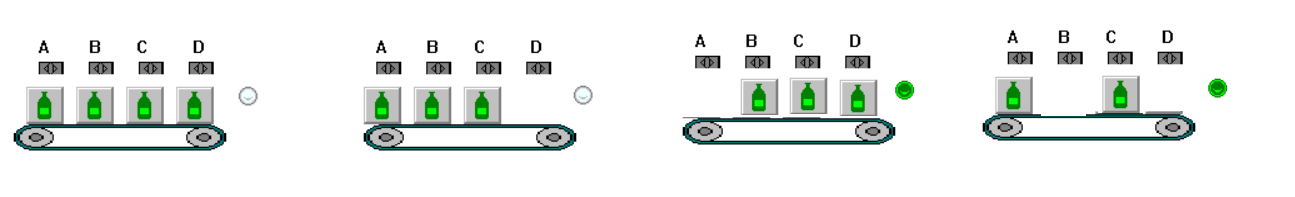
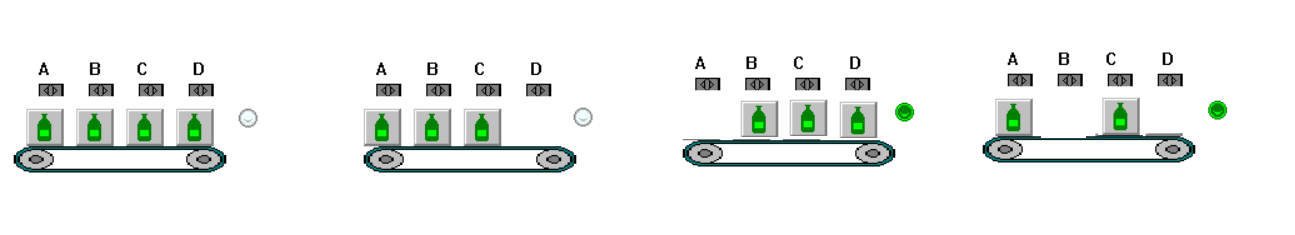
automatas ss

diff --git a/webAutomatas/ssp.html b/webAutomatas/ssp.html
@@ -16,7 +16,7 @@
 
 <body>
 
-    <div id="contenedor">
+    <div id="contenedor1">
 
         <header>
             <nav>
@@ -36,8 +36,8 @@
                         <img alt="automas" src="../imagenes/ssp.jpeg">PRÁCTICAS
                     </a>
                 </div>
-                
-                  <!-- Por ejemplo: -->
+
+                <!-- Por ejemplo: -->
                 <div class="card card_icono">
                     <a href="logo.html">
 
@@ -54,7 +54,7 @@
 
                         <img src="imagenes/tia_teoria_nuevo_proyecto5.png" alt="1200"> 1200</a>
                 </div>
-              
+
 
                 <!-- Por ejemplo: -->
                 <div class="card card_icono">
@@ -70,35 +70,38 @@
             </article>
 
             <br>
-           <article class="articulo article_flex_contenedor1">
+            <article class="articulo article_flex_contenedor1">
 
 
-                <!-- *************** inicio practica  ********************************** -->
+                <!-- *************DEPOSITO********tamaño imagen del sumario 1800*325 ****ratio 5.5 ***** -->
                 <details class="detallescard">
                     <summary class="sumario">
-                        <h2 class="puntero">Deposito</h2>
-        <img class="imagen" src="imagenes/ssp-deposito.png" alt="deposito">
-                 
+                        <h2 class="puntero">Deposito
+                        <a href="imagenes/ssp-deposito.png" target="_blank">
+
+                            <img class="imagen" src="imagenes/ssp-deposito1.png" alt="deposito"></a>
+                        </h2>
                     </summary>
                     <h3>Deposito</h3>
-                    <a name="prac1"></a> 
+                    <a name="prac1"></a>
 
-            <br>
+                    <br>
                     En una instalación con un depósito de agua con tres detectores, uno en la parte inferior, otro la parte media, otro en la parte superior y una luz roja. <br> <br>
                     Crea la función lógica de activación de la luz roja cuando,
                     el depósito no tenga agua o haya un error con las detectores de agua, ejemplo que estén los dos detectores superiores y no esté en inferior
 
                     <br><a href="#contenedor">INICIO</a>
-                 <input class="boton" type="button" value="cerrar todas las cuestiones" onClick="location.reload();">
+                    <input class="boton" type="button" value="cerrar todas las cuestiones" onClick="location.reload();">
                 </details>
                 <!-- fin practica  -->
-                <!-- ******************************************* inicio practica  ********************************** -->
-         <details class="detallescard">
+                <!-- **********EMBOTELLADORA 1 ********************************** -->
+                <details class="detallescard">
                     <summary class="sumario">
-                        <h2 class="puntero">Embotelladora</h2>
-<img class="imagen" src="imagenes/ssp-botellas.png" alt="embotelladora">
+                        <h2 class="puntero">Embotelladora
+                            <img class="imagen" src="imagenes/ssp-botellas.png" alt="embotelladora">
+                        </h2>
                     </summary>
-                   <h3>Embotelladora</h3>
+                    <h3>Embotelladora</h3>
                     <a name="prac2"></a>
                     <br>
                     En una instalación embotelladora, me vienen por una cinta transportadora botellas en grupos de 1, 2 3 o 4 botellas, <br>
@@ -108,18 +111,19 @@
 
 
                     <br><a href="#contenedor">INICIO</a>
-                <input class="boton" type="button" value="cerrar todas las cuestiones" onClick="location.reload();">
+                    <input class="boton" type="button" value="cerrar todas las cuestiones" onClick="location.reload();">
                 </details>
                 <!-- fin practica  
-                   <!-- ******************************************* inicio practica  ********************************** -->
-                  <details class="detallescard">
+                   <!-- **************EMBOTELLADORA 2********************************** -->
+                <details class="detallescard">
                     <summary class="sumario">
-                        <h2 class="puntero">Embotelladora 2</h2>
- <img class="imagen" src="imagenes/ssp-botellas.jpg" alt="embotelladora">
+                        <h2 class="puntero">Embotelladora 2
+                            <img class="imagen" src="imagenes/ssp-botellas.jpg" alt="embotelladora">
+                        </h2>
                     </summary>
-                  <h3>Embotelladora</h3>
-                   <a name="prac3"></a> 
-                   <br>
+                    <h3>Embotelladora</h3>
+                    <a name="prac3"></a>
+                    <br>
                     En una instalación embotelladora, me vienen por una cinta transportadora botellas en grupos de 1, 2 3 o 4 botellas, <br>
                     Cuando los grupos sea de 2 o 3 botellas de encendera una luz verde<br>
                     Crea la función lógica del encendido del piloto<br>
@@ -127,18 +131,19 @@
 
 
                     <br><a href="#contenedor">INICIO</a>
-               <input class="boton" type="button" value="cerrar todas las cuestiones" onClick="location.reload();">
+                    <input class="boton" type="button" value="cerrar todas las cuestiones" onClick="location.reload();">
                 </details>
                 <!-- fin practica .
-                    <!-- ******************************************* inicio practica  ********************************** -->
-                  <details class="detallescard">
+                    <!-- ******************Embotelladora 3********************************** -->
+                <details class="detallescard">
                     <summary class="sumario">
                         <h2 class="puntero">Embotelladora 3
-                            <img class="imagen" src="imagenes/ssp-botellas3.png" alt="embotelladora"></h2>
+                            <img class="imagen" src="imagenes/ssp-botellas3.png" alt="embotelladora">
+                        </h2>
                     </summary>
                     <h3>Embotelladora</h3>
-                   <a name="prac4"></a> 
-                <br>
+                    <a name="prac4"></a>
+                    <br>
                     En una instalación embotelladora, me vienen por una cinta transportadora botellas en grupos de 1, 2 3 o 4 botellas, <br>
                     <ul>
                         <li> Las botellas detectadas con el sensor A contienen 3 litros de agua</li>
@@ -152,45 +157,49 @@
 
 
                     <br><a href="#contenedor">INICIO</a>
-                <input class="boton" type="button" value="cerrar todas las cuestiones" onClick="location.reload();">
+                    <input class="boton" type="button" value="cerrar todas las cuestiones" onClick="location.reload();">
                 </details>
                 <!-- fin practica-->
 
                 <a name="prac5"></a><br><br><br>
-                <!-- ******************************************* inicio practica  ********************************** -->
-               <details class="detallescard">
+                <!-- ***************PUERTA CORREDERA ratio 5.5 ****************************** -->
+                <details class="detallescard">
                     <summary class="sumario">
-                        <h2 class="puntero">Puerta corredera</h2>
-<img class="imagen" src="imagenes/ssp_puerta.png" alt="puerta">
+                        <h2 class="puntero">Puerta corredera
+                            <img class="imagen" src="imagenes/ssp_puerta.png" alt="puerta"></h2>
                     </summary>
-                    
-        
-                     
-                  <iframe width="560" height="315" src="https://www.youtube.com/embed/rXNu4bJtlQ0?si=8p5Mz1dC8OzRpjqt" title="YouTube video player" frameborder="0" allow="accelerometer; autoplay; clipboard-write; encrypted-media; gyroscope; picture-in-picture; web-share" referrerpolicy="strict-origin-when-cross-origin" allowfullscreen></iframe>
-               
-<br>
-                   <a href=" https://www.youtube.com/watch?v=rXNu4bJtlQ0" target="_blank">
-                  PUERTA DE GARAJE </a><br>
+
+
+                    <div class="centrar">
+                        <iframe width="560" height="315" src="https://www.youtube.com/embed/rXNu4bJtlQ0?si=8p5Mz1dC8OzRpjqt" title="YouTube video player" frameborder="0" allow="accelerometer; autoplay; clipboard-write; encrypted-media; gyroscope; picture-in-picture; web-share" referrerpolicy="strict-origin-when-cross-origin" allowfullscreen></iframe>
+                    </div>
+                    <br>
+                    <a href=" https://www.youtube.com/watch?v=rXNu4bJtlQ0" target="_blank">
+                        PUERTA DE GARAJE </a><br>
 
                     <br><a href="#contenedor">INICIO</a>
-                <input class="boton" type="button" value="cerrar todas las cuestiones" onClick="location.reload();">
+                    <input class="boton" type="button" value="cerrar todas las cuestiones" onClick="location.reload();">
                 </details>
                 <!-- fin practica  -->
 
                 <a name="prac6"></a><br><br><br>
-                <!-- ******************************************* inicio practica  ********************************** -->
+                <!-- ********************GRUA***********ratio 5.5 ***** -->
                 <details class="detallescard">
                     <summary class="sumario">
-                        <h2 class="puntero">Grúa</h2>
-
+                        <h2 class="puntero">Grúa
+                            <img class="imagen" src="imagenes/ssp-grua.png" alt="puerta"></h2>
                     </summary>
                     <h3>Grúa</h3>
-           
-                   <iframe width="560" height="315" src="https://www.youtube.com/embed/BPJ0demYd2E?si=acYq68A1ENqr2hWM" title="YouTube video player" frameborder="0" allow="accelerometer; autoplay; clipboard-write; encrypted-media; gyroscope; picture-in-picture; web-share" referrerpolicy="strict-origin-when-cross-origin" allowfullscreen></iframe>
-                   
+                    <div class="centrar">
+                        <iframe width="560" height="315" src="https://www.youtube.com/embed/BPJ0demYd2E?si=acYq68A1ENqr2hWM" title="YouTube video player" frameborder="0" allow="accelerometer; autoplay; clipboard-write; encrypted-media; gyroscope; picture-in-picture; web-share" referrerpolicy="strict-origin-when-cross-origin" allowfullscreen></iframe>
+                    </div>
+                    <a href="https://www.youtube.com/watch?v=BPJ0demYd2E" target="_blank">
+                        GRÚA </a><br>
+
+
 
                     <br><a href="#contenedor">INICIO</a>
-                <input class="boton" type="button" value="cerrar todas las cuestiones" onClick="location.reload();">
+                    <input class="boton" type="button" value="cerrar todas las cuestiones" onClick="location.reload();">
                 </details>
                 <!-- fin practica  -->
                 <a name="prac7"></a><br><br><br>
@@ -242,33 +251,33 @@
 
 
             </article>
-            
-             <!--    ********************************************************************** -->  
-          
 
-           <br>
-<article class="articulo">
-  <h2 class="centrar">VIDEOS</h2>
-            <article class="article_flex_contenedor1 ">
+            <!--    ********************************************************************** -->
 
-        
-                       <section class="section_naranja">
-                   <iframe width="220" height="400" src="https://www.youtube.com/embed/zNn5gw5fKNc?si=A_3wkB0_zFYZ3b8h" title="YouTube video player" frameborder="4"  allow="accelerometer; autoplay; clipboard-write;  gyroscope; picture-in-picture;"  allowfullscreen></iframe>
-                </section>
-                      <section class="section_naranja">
-                     <iframe width="220" height="400" src="https://www.youtube.com/embed/aX3WQGFvEKY" title="Estación 1 Automatización" frameborder="0" allow="accelerometer; autoplay; clipboard-write; encrypted-media; gyroscope; picture-in-picture; web-share" referrerpolicy="strict-origin-when-cross-origin" allowfullscreen></iframe>
 
-                </section>
+            <br>
+            <article class="articulo">
+                <h2 class="centrar">VIDEOS</h2>
+                <article class="article_flex_contenedor1 ">
 
-                
- 
+
+                    <section class="section_naranja">
+                        <iframe width="220" height="400" src="https://www.youtube.com/embed/zNn5gw5fKNc?si=A_3wkB0_zFYZ3b8h" title="YouTube video player" frameborder="4" allow="accelerometer; autoplay; clipboard-write;  gyroscope; picture-in-picture;" allowfullscreen></iframe>
+                    </section>
+                    <section class="section_naranja">
+                        <iframe width="220" height="400" src="https://www.youtube.com/embed/aX3WQGFvEKY" title="Estación 1 Automatización" frameborder="0" allow="accelerometer; autoplay; clipboard-write; encrypted-media; gyroscope; picture-in-picture; web-share" referrerpolicy="strict-origin-when-cross-origin" allowfullscreen></iframe>
+
+                    </section>
+
+
+
+                </article>
             </article>
-            </article>
-            
-            
+
+
         </main>
-        <aside>
-            <!--  <a href="#menuimagencabecera">INICIO</a> <br>-->
+        <!--    <aside>
+          <a href="#menuimagencabecera">INICIO</a> <br>
             <section class="section_naranja">
                 <h2>
                     PRÁCTICAS
@@ -278,7 +287,7 @@
                 <a href="#prac2">Embotelladora 1</a> <br>
                 <a href="#prac3">Embotelladora 2</a> <br>
                 <a href="#prac4">Embotelladora 3</a> <br>
-              <!--  <a href="#prac5"> Inicio a la programación, encendido 4 bombillas</a> <br>
+                <!--  <a href="#prac5"> Inicio a la programación, encendido 4 bombillas</a> <br>
                 <a href="#prac6"> Iluminación y contadores</a> <br>
                 <a href="#prac7">Funciones analógicas</a> <br>
                      <a href="#prac8">Dos puntos de luz desde 3 sitios</a> <br>
@@ -314,16 +323,16 @@
                 <a href="#prac29">Alumbrado de emergencia</a> <br>
                 <a href="#prac30">Halogeno</a> <br>
                 <a href="#prac31">Tres halogenos</a> <br>
-                <a href="#prac32">Lamparas de descarga</a> <br>   -->
+                <a href="#prac32">Lamparas de descarga</a> <br>   
 
             </section>
 
 
-        </aside>
+        </aside>-->
 
 
         <footer>
-            1 CV= 0,735 kW=735W 1kW=1.36CV<br>
+           ¿Como utilizas la IA, como un loro o como un buho?<br>
         </footer>
     </div>
 </body>

diff --git a/index_files/estilo.css b/index_files/estilo.css
@@ -1,4 +1,13 @@
- * {	/*elinina todos los margenes a todo alinea todos los li al borde*/
+/*titulos*/
+/* ---    ORGANIZACION: CONTENEDOR, MAIN ASIDE LATERAL FOOTER--ASIDE SECTION      -------*/
+/* para paginas de imagenes o videos*/
+/*   ----------------------  particularidades   colores flex ancho--------------------*/
+/* ----------------------------- listas-  ul------------*/
+/* ----------------------- imagenes  ------------------------------------------475*/
+/* ------------------  details----------------------------*/
+/*   MEDIA SCREEN  --------------------------para el movil -----------------------  1195*/  
+
+* {	/*elinina todos los margenes a todo alinea todos los li al borde*/
 			margin:0px;
             padding:0px;
 			}	
@@ -500,6 +509,10 @@ width: min(1500px, 100%);
     max-height: 230px;
 }
 
+.max-height_50px{
+    max-height: 50px;
+}
+
 
 .overflow_auto{
    overflow:auto; 
@@ -570,7 +583,7 @@ width: min(1500px, 100%);
  
 
 
-/* ------------------  ver mas  ----------------------------*/
+/* ------------------  ver mas  ------------------utilizado en logo-practicas----------*/
   .flex_wrap_vermas {
 
     display: flex;